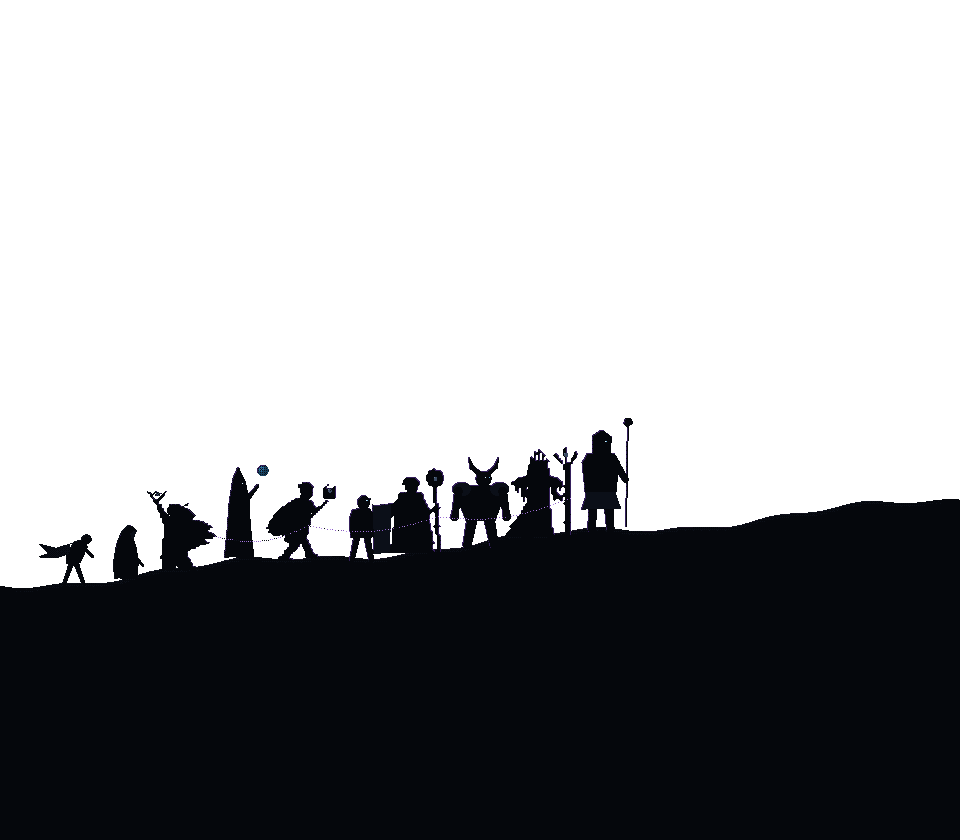
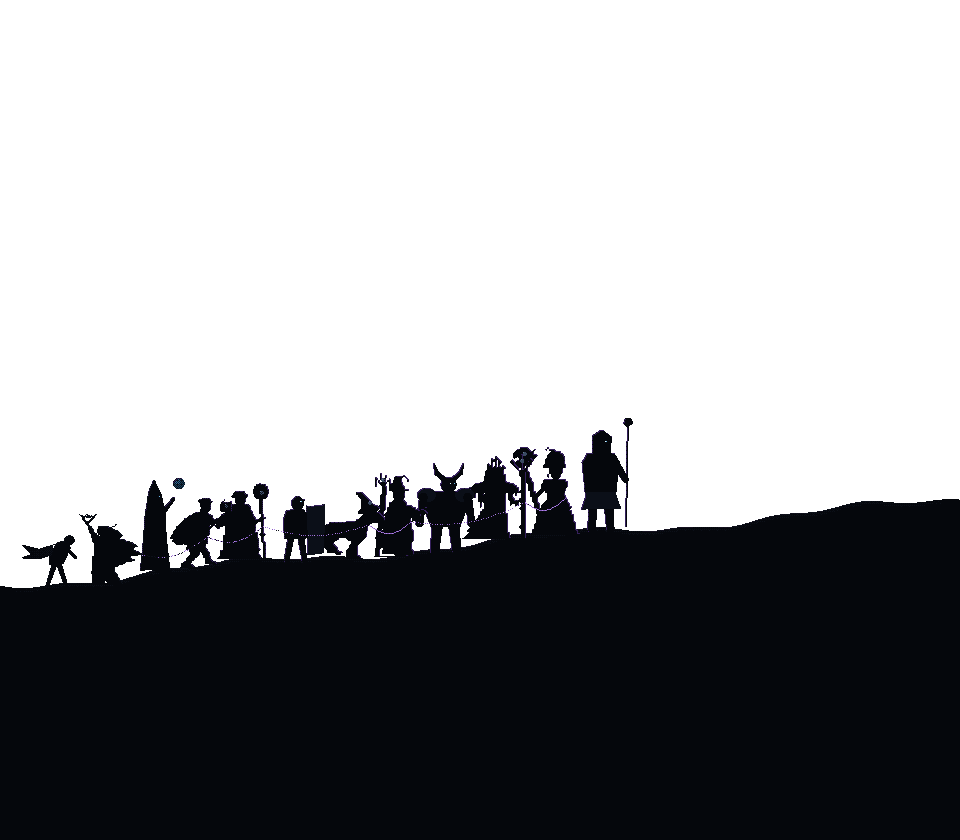
Prologue: "He took them all" shows Tituba, Vainamoinen and Laelaps too
Eric: "Show them". The procession is now seven wizards and five of his
creatures, walking a little closer together, with the wizards near the head of
the line so the phone's cropped canvas shows them.

Changed region(s): [[0.0312, 0.5262, 0.5938, 0.7119]]

diff --git a/tools/art/prologue.py b/tools/art/prologue.py
@@ -336,11 +336,11 @@ def standing_stone(c, x, yb, w, h, seed, lean=0.0, ramp=None, warm=None, toward=
 # at whatever size the panel needs - filled flat, rimmed by the light of the panel, and lit only at
 # the staff or the hand that carries his light in the game.
 #
-# WHICH OF THEM: only the wizards whose silhouette a fresh save already shows - the four disciplines
-# and John Dee, whose locked card is a silhouette from the first day. Tituba, Vainamoinen and Laelaps
-# are secret until their chapters open (UnlockCatalog's secretUntilStage; .ai/side-events.md, "Secret
-# wizards"), and a prologue that drew their shapes would print the answer before the question. Every
-# wizard drawn here is one a player can already see, so none of them gives a rescue away.
+# WHICH OF THEM: the moot and the fall show the wizards a fresh save already sees - the four
+# disciplines and John Dee. The procession ("He took them all") shows every one of them, the secret
+# three as well: Tituba, Vainamoinen and Laelaps are secret on the character select until their
+# chapters open (UnlockCatalog's secretUntilStage), and Eric chose to show them here anyway (2026-11-01,
+# "Show them") - "all" has to mean all, and a dark shape on a ridge names nobody.
 CHARS = os.path.join(ROOT, "assets", "bonelight", "characters")
 CELL = 48
 # The rows a wizard stands in on his cell: feet on row 46, the contact line on 47, the hat near row 2.
@@ -355,6 +355,12 @@ STORM = ("stormcaller", "lightning", "lightning")
 GEO = ("geomancer", "earth", "earth")
 DEE = ("dee", "darkness", "arcane")
 ROSTER = [PYRO, FROST, STORM, GEO, DEE]
+# The three the player frees, for the procession only (above). Tituba's staff head is her water,
+# Vainamoinen's his grass; Laelaps carries no light of his own, so his falls back to his middle unless
+# the gold of his collar star is found.
+TITUBA = ("tituba", "water", "water")
+VAINAMOINEN = ("vainamoinen", "grass", "grass")
+LAELAPS = ("laelaps", "light", "wind")
 
 _CELLS = {}
 
@@ -1141,7 +1147,7 @@ def p_tide():
 def p_taken():
     """4. "He took them all." The game's wizards led away along a ridge against his light, bound
     wrist to wrist by his chain, their staves dark, their light drawn out of them toward the tower.
-    Silhouettes only, and only of wizards a fresh save already sees (ROSTER): no secret one."""
+    Silhouettes only, of every wizard in the game, the three the player frees included (Eric)."""
     back, mid, fore = frame(True), frame(), frame()
     sky(back, 0, 560, [OCC, S[4], V[4], V[3], V[3], V[2]])
     stars(back, (0, 0, FW, 300), 140, 13, colors=[K[2], V[0]])
@@ -1161,10 +1167,13 @@ def p_taken():
             mid.set(x, y, OCC if (y - top) > 3 or dith(x, y, 0.7) else S[4])
         if ridge(x + 1) < ridge(x - 1):
             mid.set(x, top, V[4])
-    order = [("knight", 0), ("wiz", 0), ("bruiser", 0), ("wiz", 1), ("shielder", 0), ("wiz", 2),
-             ("caster", 0), ("wiz", 3), ("swarmer", 0), ("runner", 0)]
-    # Four of the game's wizards, walking (each a different frame of his own walk), staves dark.
-    taken = [(FROST, 1), (DEE, 5), (PYRO, 3), (STORM, 7)]
+    order = [("knight", 0), ("wiz", 0), ("wiz", 1), ("bruiser", 0), ("wiz", 2), ("wiz", 3), ("shielder", 0),
+             ("wiz", 4), ("wiz", 5), ("caster", 0), ("wiz", 6), ("runner", 0)]
+    # Seven of the game's wizards, walking (each a different frame of his own walk), staves dark,
+    # Tituba, Vainamoinen and Laelaps among the first four. Twelve figures where there were ten, so they
+    # walk a little closer together; and the wizards walk near the head of the line, by the tower,
+    # because the phone's canvas crops the panel's sides and shows the head of it, not the tail.
+    taken = [(TITUBA, 2), (FROST, 1), (VAINAMOINEN, 6), (LAELAPS, 4), (DEE, 5), (PYRO, 3), (STORM, 7)]
     x = 600
     rng = random.Random(17)
     wrists = []
@@ -1183,7 +1192,7 @@ def p_taken():
         else:
             hgt = {"bruiser": 74, "knight": 86, "shielder": 66, "caster": 78, "swarmer": 56, "runner": 58}[kind]
             creature(mid, kind, x, yb, hgt, facing=1, body=[OCC, S[4]], rim=DK[3], seed=700 + i)
-        x -= 52 + rng.random() * 12
+        x -= 44 + rng.random() * 10
     # the chain that binds them, one line of his light from wrist to wrist
     for a, b in zip(wrists, wrists[1:]):
         for k in range(48):
